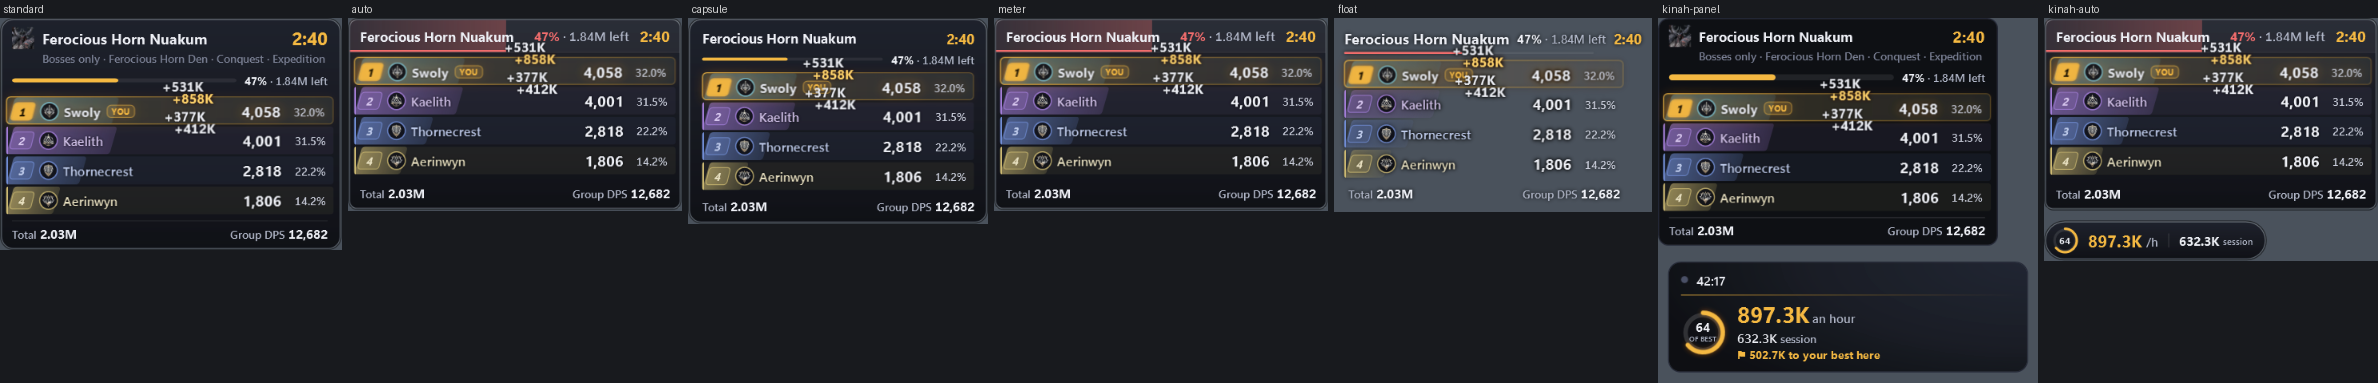
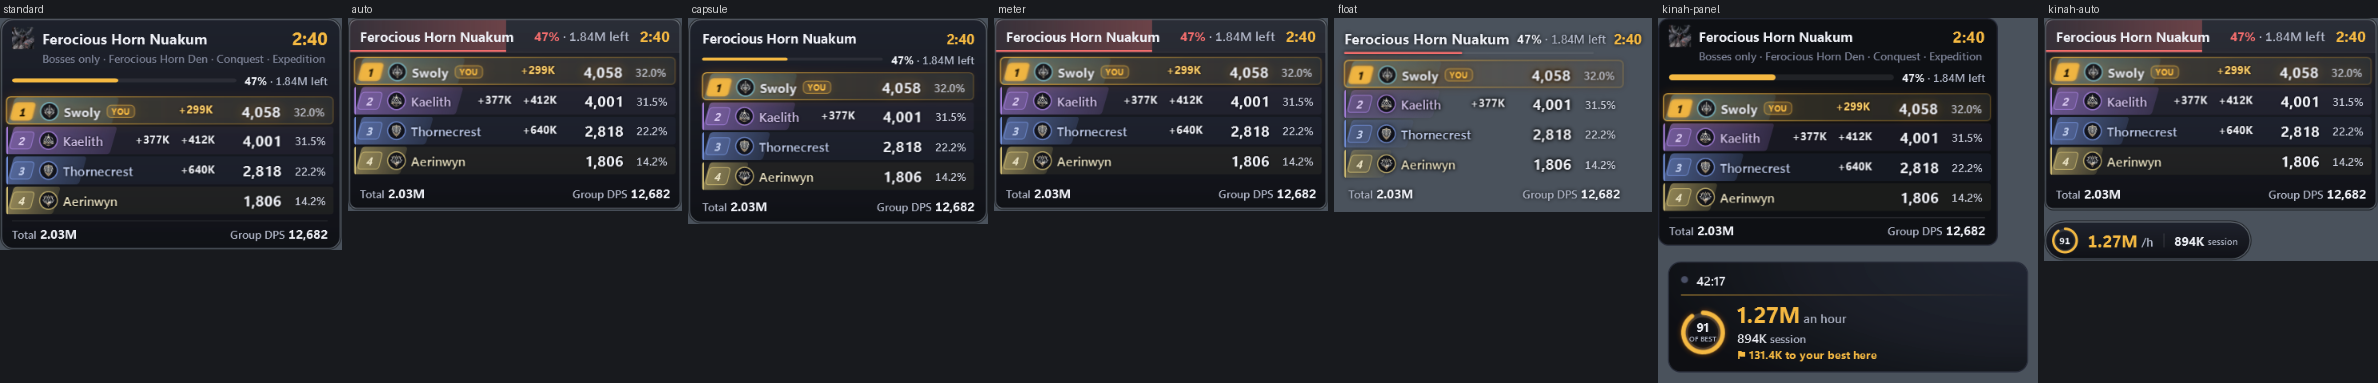
Parser meter: pop-ups stay in their own row, clear of the name and apart
Review of the renders: four pop-ups piled up over Swoly's name and ran into
the header. Now each pop-up rises 6 px inside a band clipped to its own row,
in the open bar between the end of the name's line and the DPS's column (no
room there, no pop-up). Two a row at most, side by side 10 px apart; a third,
or a second with no room, takes the oldest's place. Smaller (11.5 px) and
shorter (700 ms). A row that moves takes its pop-ups along.

options-test checks each one's place: in its row's band, clear of the name
and the DPS, apart from the other, at most two a row and four in all, the
oldest replaced, gold only for a crit.

diff --git a/tracker/KinahLedger.Tracker/Ui/ParserRows.cs b/tracker/KinahLedger.Tracker/Ui/ParserRows.cs
@@ -45,7 +45,9 @@ public sealed class ParserRows : Grid
     /// <summary>The big hits' pop-ups over the rows (never taking a click); at most <see cref="PopsPerRow"/> a row, <see cref="PopsInAll"/> in all.</summary>
     readonly Canvas _pops = new() { IsHitTestVisible = false };
     public const int PopsPerRow = 2, PopsInAll = 4;
-    public const double PopMs = 800;
+    public const double PopMs = 700;
+    /// <summary>A pop-up: its band (the row's open bar, clipped to the row), its words, where they sit across the row.</summary>
+    sealed class PopEl { public required Canvas Band; public required TextBlock Text; public required TranslateTransform Rise; public double Left, Right; public int Gen; }
     long _popSeq;
     int _popsOn, _popGen;
     string _fightId = "";
@@ -107,9 +109,8 @@ public sealed class ParserRows : Grid
         /// </summary>
         public DropShadowEffect? LiftShadow, ChipOwn, ChipGlow, FrameGlow;
         public double ChipBlur0, ChipOpacity0, FrameBlur0, FrameOpacity0;
-        public int Pops;
-        /// <summary>The row's two pop-up places left of the DPS (the second a line above the first): which are taken.</summary>
-        public readonly bool[] PopSlot = new bool[ParserRows.PopsPerRow];
+        /// <summary>The row's pop-ups on screen, oldest first (at most <see cref="ParserRows.PopsPerRow"/>).</summary>
+        public readonly List<PopEl> Live = new();
     }
 
     /// <summary>The fight now: each member's row updated in place, moved to their rank.</summary>
@@ -120,7 +121,7 @@ public sealed class ParserRows : Grid
         {
             foreach (var r in _rows.Values) _host.Children.Remove(r.Root);
             _rows.Clear();
-            _pops.Children.Clear(); _popsOn = 0; _popGen++;   // the rows go too, and their pop-up places with them
+            _pops.Children.Clear(); _popsOn = 0; _popGen++;   // the rows go too, and their pop-ups with them
             // a fight drawn first here: its big hits so far are history, never popped
             if (e.Id != _fightId) { _pbShown = ""; _wasLive = e.Live; _sawLive = e.Live; _popSeq = e.BigHits?.LastOrDefault()?.Seq ?? 0; }
             _fightId = e.Id; _expanded = expanded;
@@ -181,6 +182,7 @@ public sealed class ParserRows : Grid
             }
             if (double.IsNaN(row.Y) || fresh) { row.Y = y; row.Root.Margin = new Thickness(0, y, 0, 0); }
             else if (Math.Abs(row.Y - y) > 0.5) Glide(row, y, passed: rankWas > 0 && rank < rankWas);
+            foreach (var lp in row.Live) Canvas.SetTop(lp.Band, row.Y);   // its pop-ups go with a row that moved
             // your heat: your pace against your best on this boss, warmer as it nears it, gold once you beat it
             if (f.You) SetHeat(row, Heat(e, f, now));
             // a death: the coral tick lands on the row
@@ -566,40 +568,77 @@ public sealed class ParserRows : Grid
     /// </summary>
     void Pop(RowEl r, BigHit h)
     {
-        if (!Motion.On || r.Pops >= PopsPerRow || _popsOn >= PopsInAll) return;
+        if (!Motion.On) return;
         double tw = r.Track.ActualWidth;
         if (tw <= 0) return;
-        int slot = Array.IndexOf(r.PopSlot, false);
-        if (slot < 0) return;
+        // a full meter: a row that shows one already takes the new one in its place; any other waits for none
+        if (_popsOn >= PopsInAll && r.Live.Count == 0) return;
         bool crit = h.Crit == true;
-        var t = new TextBlock { Text = "+" + Amounts.Short(h.Amount), FontSize = 12.5, FontWeight = FontWeights.Bold, Tag = crit ? "pop-crit" : "pop",
-            Foreground = crit ? HudKit.B(0xFFD36B) : HudKit.Ink, IsHitTestVisible = false, RenderTransformOrigin = new Point(0.5, 1),
-            Effect = crit ? new DropShadowEffect { Color = Color.FromRgb(0x6B, 0x3A, 0x00), BlurRadius = 6, ShadowDepth = 0, Opacity = 1 } : TextHalo() };
+        var t = new TextBlock { Text = "+" + Amounts.Short(h.Amount), FontSize = 11.5, FontWeight = FontWeights.Bold, Tag = crit ? "pop-crit" : "pop",
+            Foreground = crit ? HudKit.B(0xFFD36B) : HudKit.Ink, IsHitTestVisible = false, RenderTransformOrigin = new Point(0.5, 0.5),
+            Effect = crit ? new DropShadowEffect { Color = Color.FromRgb(0x6B, 0x3A, 0x00), BlurRadius = 5, ShadowDepth = 0, Opacity = 1 } : TextHalo() };
         System.Windows.Documents.Typography.SetNumeralAlignment(t, FontNumeralAlignment.Tabular);
         t.Measure(new Size(double.PositiveInfinity, double.PositiveInfinity));
-        double pw = t.DesiredSize.Width;
-        // in the row's open bar, right-aligned just left of the DPS's column (never on the figures, never on the chip and
-        // emblem); a second one at once sits a line above the first, a little further left, so the two never read as one
-        double minX = r.Cols.Margin.Left + 52, right = DpsLeft(r, tw) - 8 - (slot == 1 ? 10 : 0);
-        double x = Math.Max(minX, right - pw);
-        Canvas.SetLeft(t, x); Canvas.SetTop(t, r.Y + 5 - (slot == 1 ? 12 : 0));
+        double pw = t.DesiredSize.Width, ph = t.DesiredSize.Height;
+        // the open bar: from past the name's line (the name, YOU, the plates) to just short of the DPS's column; no room, no pop-up
+        double lo = Math.Max(r.Cols.Margin.Left + 52, NameEnd(r) + 8), hi = DpsLeft(r, tw) - 6;
+        if (hi - lo < pw) return;
+        // next to the DPS first; else left of the one there with a clear gap; else the oldest gives way (never more than two a row)
+        while (true)
+        {
+            double? x = null;
+            if (r.Live.Count < PopsPerRow)
+            {
+                double right = hi;
+                foreach (var o in r.Live) right = Math.Min(right, o.Left - PopGap);
+                if (r.Live.Count == 0 || right - pw >= lo) x = right - pw;
+            }
+            if (x is double at) { Place(r, t, at, pw, ph, lo, hi); return; }
+            if (r.Live.Count == 0) return;
+            Drop(r, r.Live[0]);
+        }
+    }
+
+    /// <summary>The space kept between two pop-ups on a row.</summary>
+    public const double PopGap = 10;
+
+    void Place(RowEl r, TextBlock t, double x, double pw, double ph, double lo, double hi)
+    {
+        double bandH = _rowH - 2;
+        var band = new Canvas { Width = hi - lo, Height = bandH, ClipToBounds = true, IsHitTestVisible = false };
+        Canvas.SetLeft(band, lo); Canvas.SetTop(band, r.Y);
+        double top = Math.Round((bandH - ph) / 2) + 3;
+        Canvas.SetLeft(t, x - lo); Canvas.SetTop(t, top);
         var st = new ScaleTransform(1, 1); var tt = new TranslateTransform();
         t.RenderTransform = new TransformGroup { Children = { st, tt } };
-        _pops.Children.Add(t);
-        r.Pops++; _popsOn++; r.PopSlot[slot] = true;
-        int gen = _popGen;
+        band.Children.Add(t);
+        _pops.Children.Add(band);
+        var pop = new PopEl { Band = band, Text = t, Rise = tt, Left = x, Right = x + pw, Gen = _popGen };
+        r.Live.Add(pop); _popsOn++;
+        // up 6 px inside its own row (never into the row above or the header), in quickly, out over the second half
         Motion.Play(t, PopMs, p =>
         {
-            tt.Y = -14 * Motion.Out(p);
-            t.Opacity = p < 0.12 ? p / 0.12 : p > 0.55 ? 1 - (p - 0.55) / 0.45 : 1;
-            double sc = p < 0.25 ? 0.7 + 0.45 * Motion.Out(p / 0.25) : 1.15 - 0.15 * Motion.Out((p - 0.25) / 0.75);
-            st.ScaleX = st.ScaleY = sc;
-        }, () =>
-        {
-            _pops.Children.Remove(t);
-            r.Pops = Math.Max(0, r.Pops - 1); r.PopSlot[slot] = false;
-            if (gen == _popGen) _popsOn = Math.Max(0, _popsOn - 1);   // a pop-up of a fight drawn before counts for nothing now
-        });
+            tt.Y = -6 * Motion.Out(p);
+            t.Opacity = p < 0.12 ? p / 0.12 : p > 0.5 ? 1 - (p - 0.5) / 0.5 : 1;
+            st.ScaleX = st.ScaleY = p < 0.2 ? 0.85 + 0.15 * Motion.Out(p / 0.2) : 1;
+        }, () => Drop(r, pop));
+    }
+
+    /// <summary>A pop-up away (its course over, or a newer one on its row in its place).</summary>
+    void Drop(RowEl r, PopEl pop)
+    {
+        if (!r.Live.Remove(pop)) return;
+        Motion.Halt(pop.Text);
+        _pops.Children.Remove(pop.Band);
+        if (pop.Gen == _popGen) _popsOn = Math.Max(0, _popsOn - 1);   // a pop-up of a fight drawn before counts for nothing now
+    }
+
+    /// <summary>Where the name's line ends across the row (the name, YOU, PB, the plates: what a pop-up must never cover).</summary>
+    static double NameEnd(RowEl r)
+    {
+        var defs = r.Cols.ColumnDefinitions;
+        double start = r.Cols.Margin.Left + (defs.Count > 1 ? defs[0].ActualWidth + defs[1].ActualWidth : 52);
+        return start + r.NameLine.DesiredSize.Width;
     }
 
     /// <summary>Where the DPS's column starts across the row (the figures after it too, expanded or not).</summary>
@@ -611,7 +650,13 @@ public sealed class ParserRows : Grid
     }
 
     /// <summary>For the tests: the pop-ups on the rows now (their words), and whether any part of a row is moving.</summary>
-    internal List<string> PopsForTest() => _pops.Children.OfType<TextBlock>().Select(t => $"{t.Tag}:{t.Text}").ToList();
+    /// <summary>For the tests: each pop-up on screen, where its words are across and down the meter (rise included), its band, and its row's limits.</summary>
+    internal List<(string Row, string Word, double Left, double Right, double Top, double Bottom, double BandTop, double BandBottom, double RowTop, double RowBottom, double NameEnd, double DpsLeft)> PopsForTest() =>
+        _rows.Values.SelectMany(r => r.Live.Select(p =>
+        {
+            double bl = Canvas.GetLeft(p.Band), bt = Canvas.GetTop(p.Band), top = bt + Canvas.GetTop(p.Text) + p.Rise.Y;
+            return (r.Name.Text, $"{p.Text.Tag}:{p.Text.Text}", bl + Canvas.GetLeft(p.Text), bl + Canvas.GetLeft(p.Text) + p.Text.ActualWidth, top, top + p.Text.ActualHeight, bt, bt + p.Band.Height, r.Y, r.Y + _rowH - 2, NameEnd(r), DpsLeft(r, r.Track.ActualWidth));
+        })).ToList();
     internal string? HeatForTest() => _rows.Values.FirstOrDefault(r => r.You)?.Heat is { Visibility: Visibility.Visible } h ? h.Tag as string : null;
     internal bool AnyMotionForTest() => _pops.Children.Count > 0 || _sweep.Visibility == Visibility.Visible
         || _rows.Values.Any(r => r.Ghost.Visibility == Visibility.Visible || r.Odo.Visibility == Visibility.Visible || r.Odo.Rolling || Math.Abs(r.Lift.Y) > 0.01 || r.Rise.ScaleX != 1 || r.Root.Effect != null

diff --git a/tracker/KinahLedger.Tracker/Ui/WpfApp.MeterMotion.cs b/tracker/KinahLedger.Tracker/Ui/WpfApp.MeterMotion.cs
@@ -181,10 +181,14 @@ public static partial class WpfApp
                 {
                     case "ghost": check(mid.Ghost && mid.Chunk == true, $"meter motion (ghost): part-way the bars' ghost and the boss HP's red chunk show (ghost {mid.Ghost}, chunk {mid.Chunk})"); break;
                     case "pops":
-                        int perRow = mid.Pops.GroupBy(p => p.Row).Select(g => g.Count()).DefaultIfEmpty(0).Max();
-                        check(mid.Pops.Count == ParserRows.PopsInAll && perRow <= ParserRows.PopsPerRow && mid.Pops.Count(p => p.Word.StartsWith("pop-crit:+858K")) == 1 && !mid.Pops.Any(p => p.Word.StartsWith("pop-crit:+531K")) && mid.Pops.All(p => p.Right <= p.DpsLeft + 0.5)
-                            && mid.Pops.GroupBy(p => p.Row).All(g => g.Count() < 2 || Math.Abs(g.First().Top - g.Last().Top) >= 11),
-                            $"meter motion (pops): four pop-ups at most, two a row, gold only for a crit, never over the DPS or each other ({string.Join(", ", mid.Pops.Select(p => $"{p.Row}:{p.Word}"))})");
+                        var rowsOf = mid.Pops.GroupBy(p => p.Row).ToList();
+                        int perRow = rowsOf.Select(g => g.Count()).DefaultIfEmpty(0).Max();
+                        bool apart = rowsOf.All(g => g.OrderBy(p => p.Left).Zip(g.OrderBy(p => p.Left).Skip(1)).All(z => z.Second.Left - z.First.Right >= ParserRows.PopGap - 0.5));
+                        bool clear = mid.Pops.All(p => p.Left >= p.NameEnd - 0.5 && p.Right <= p.DpsLeft + 0.5);
+                        bool inRow = mid.Pops.All(p => Math.Abs(p.BandTop - p.RowTop) < 0.5 && Math.Abs(p.BandBottom - p.RowBottom) < 0.5 && p.Top >= p.BandTop - 0.5 && p.Bottom <= p.BandBottom + 0.5);
+                        bool gold = mid.Pops.Any(p => p.Word == "pop-crit:+299K") && !mid.Pops.Any(p => p.Word.Contains("+858K")) && mid.Pops.All(p => p.Word.StartsWith("pop-crit:") == (p.Word.EndsWith("+858K") || p.Word.EndsWith("+299K")));
+                        check(mid.Pops.Count > 0 && mid.Pops.Count <= ParserRows.PopsInAll && perRow <= ParserRows.PopsPerRow && apart && clear && inRow && gold,
+                            $"meter motion (pops): four at most, two a row (a third takes the oldest's place), apart, in their own row, clear of the name and the DPS, gold only for a crit (count {mid.Pops.Count}, per row {perRow}, apart {apart}, clear {clear}, in row {inRow}, gold {gold}: {string.Join(", ", mid.Pops.Select(p => $"{p.Row}:{p.Word}@{p.Left:0}-{p.Right:0}/{p.NameEnd:0}-{p.DpsLeft:0}"))})");
                         break;
                     case "overtake": check(mid.Lifted, "meter motion (overtake): part-way the one who passed is lifted, with its shadow"); break;
                     case "finish": check(mid.Sweep == "sweep-good" && mid.Badge is { } b && b.Opacity > 0 && Math.Abs(b.Scale - 1) > 0.01 && !mid.PlateAtRest, $"meter motion (finish): part-way the light sweeps, the AVG. DPS badge stamps, the TOP DPS plate slides in (sweep {mid.Sweep}, badge {mid.Badge}, plate at rest {mid.PlateAtRest})"); break;
@@ -261,7 +265,7 @@ public static partial class WpfApp
         }
     }
 
-    sealed record MeterProbe(bool Moving, List<(string Row, string Word, double Left, double Right, double DpsLeft, double Top)> Pops, (double Opacity, double Scale)? Badge, bool PlateAtRest, bool? Chunk,
+    sealed record MeterProbe(bool Moving, List<(string Row, string Word, double Left, double Right, double Top, double Bottom, double BandTop, double BandBottom, double RowTop, double RowBottom, double NameEnd, double DpsLeft)> Pops, (double Opacity, double Scale)? Badge, bool PlateAtRest, bool? Chunk,
         Dictionary<string, (string Figure, string Odometer)> Dps, List<double> DpsRights, List<double> OdoRights, bool Lifted, bool Ghost, string? Sweep, bool Flare, string? Heat);
 
     /// <summary>One change drawn in the Parser's own window (the standard look), held at <paramref name="t"/> (null: still), and what shows.</summary>
@@ -275,15 +279,7 @@ public static partial class WpfApp
         o.Draw(c.To, c.ToAt); DoEvents();
         var root = (FrameworkElement)o.Content;
         var rows = Find<ParserRows>(root).First();
-        var pops = new List<(string, string, double, double, double, double)>();
-        foreach (var tb in Find<Canvas>(rows).SelectMany(cv => cv.Children.OfType<TextBlock>()))
-        {
-            double left = Canvas.GetLeft(tb), top = Canvas.GetTop(tb);
-            // the row it popped from: the one whose top is where it started
-            // the row it popped from: the one whose top is where it started (the second place is a line above)
-            var y0 = rows.RowNameAt(top - 5).Length > 0 ? top - 5 : top + 7;
-            pops.Add((rows.RowNameAt(y0), $"{tb.Tag}:{tb.Text}", left, left + tb.ActualWidth, rows.DpsLeftAt(y0), top));
-        }
+        var pops = rows.PopsForTest();
         var badges = TaggedShown(root, "avg-badge");
         (double, double)? badge = badges.Count == 0 ? null : (Math.Round(badges[0].Opacity, 3), badges[0].RenderTransform is ScaleTransform s ? Math.Round(s.ScaleX, 3) : 1);
         var plates = TaggedShown(root, "top-dps");
